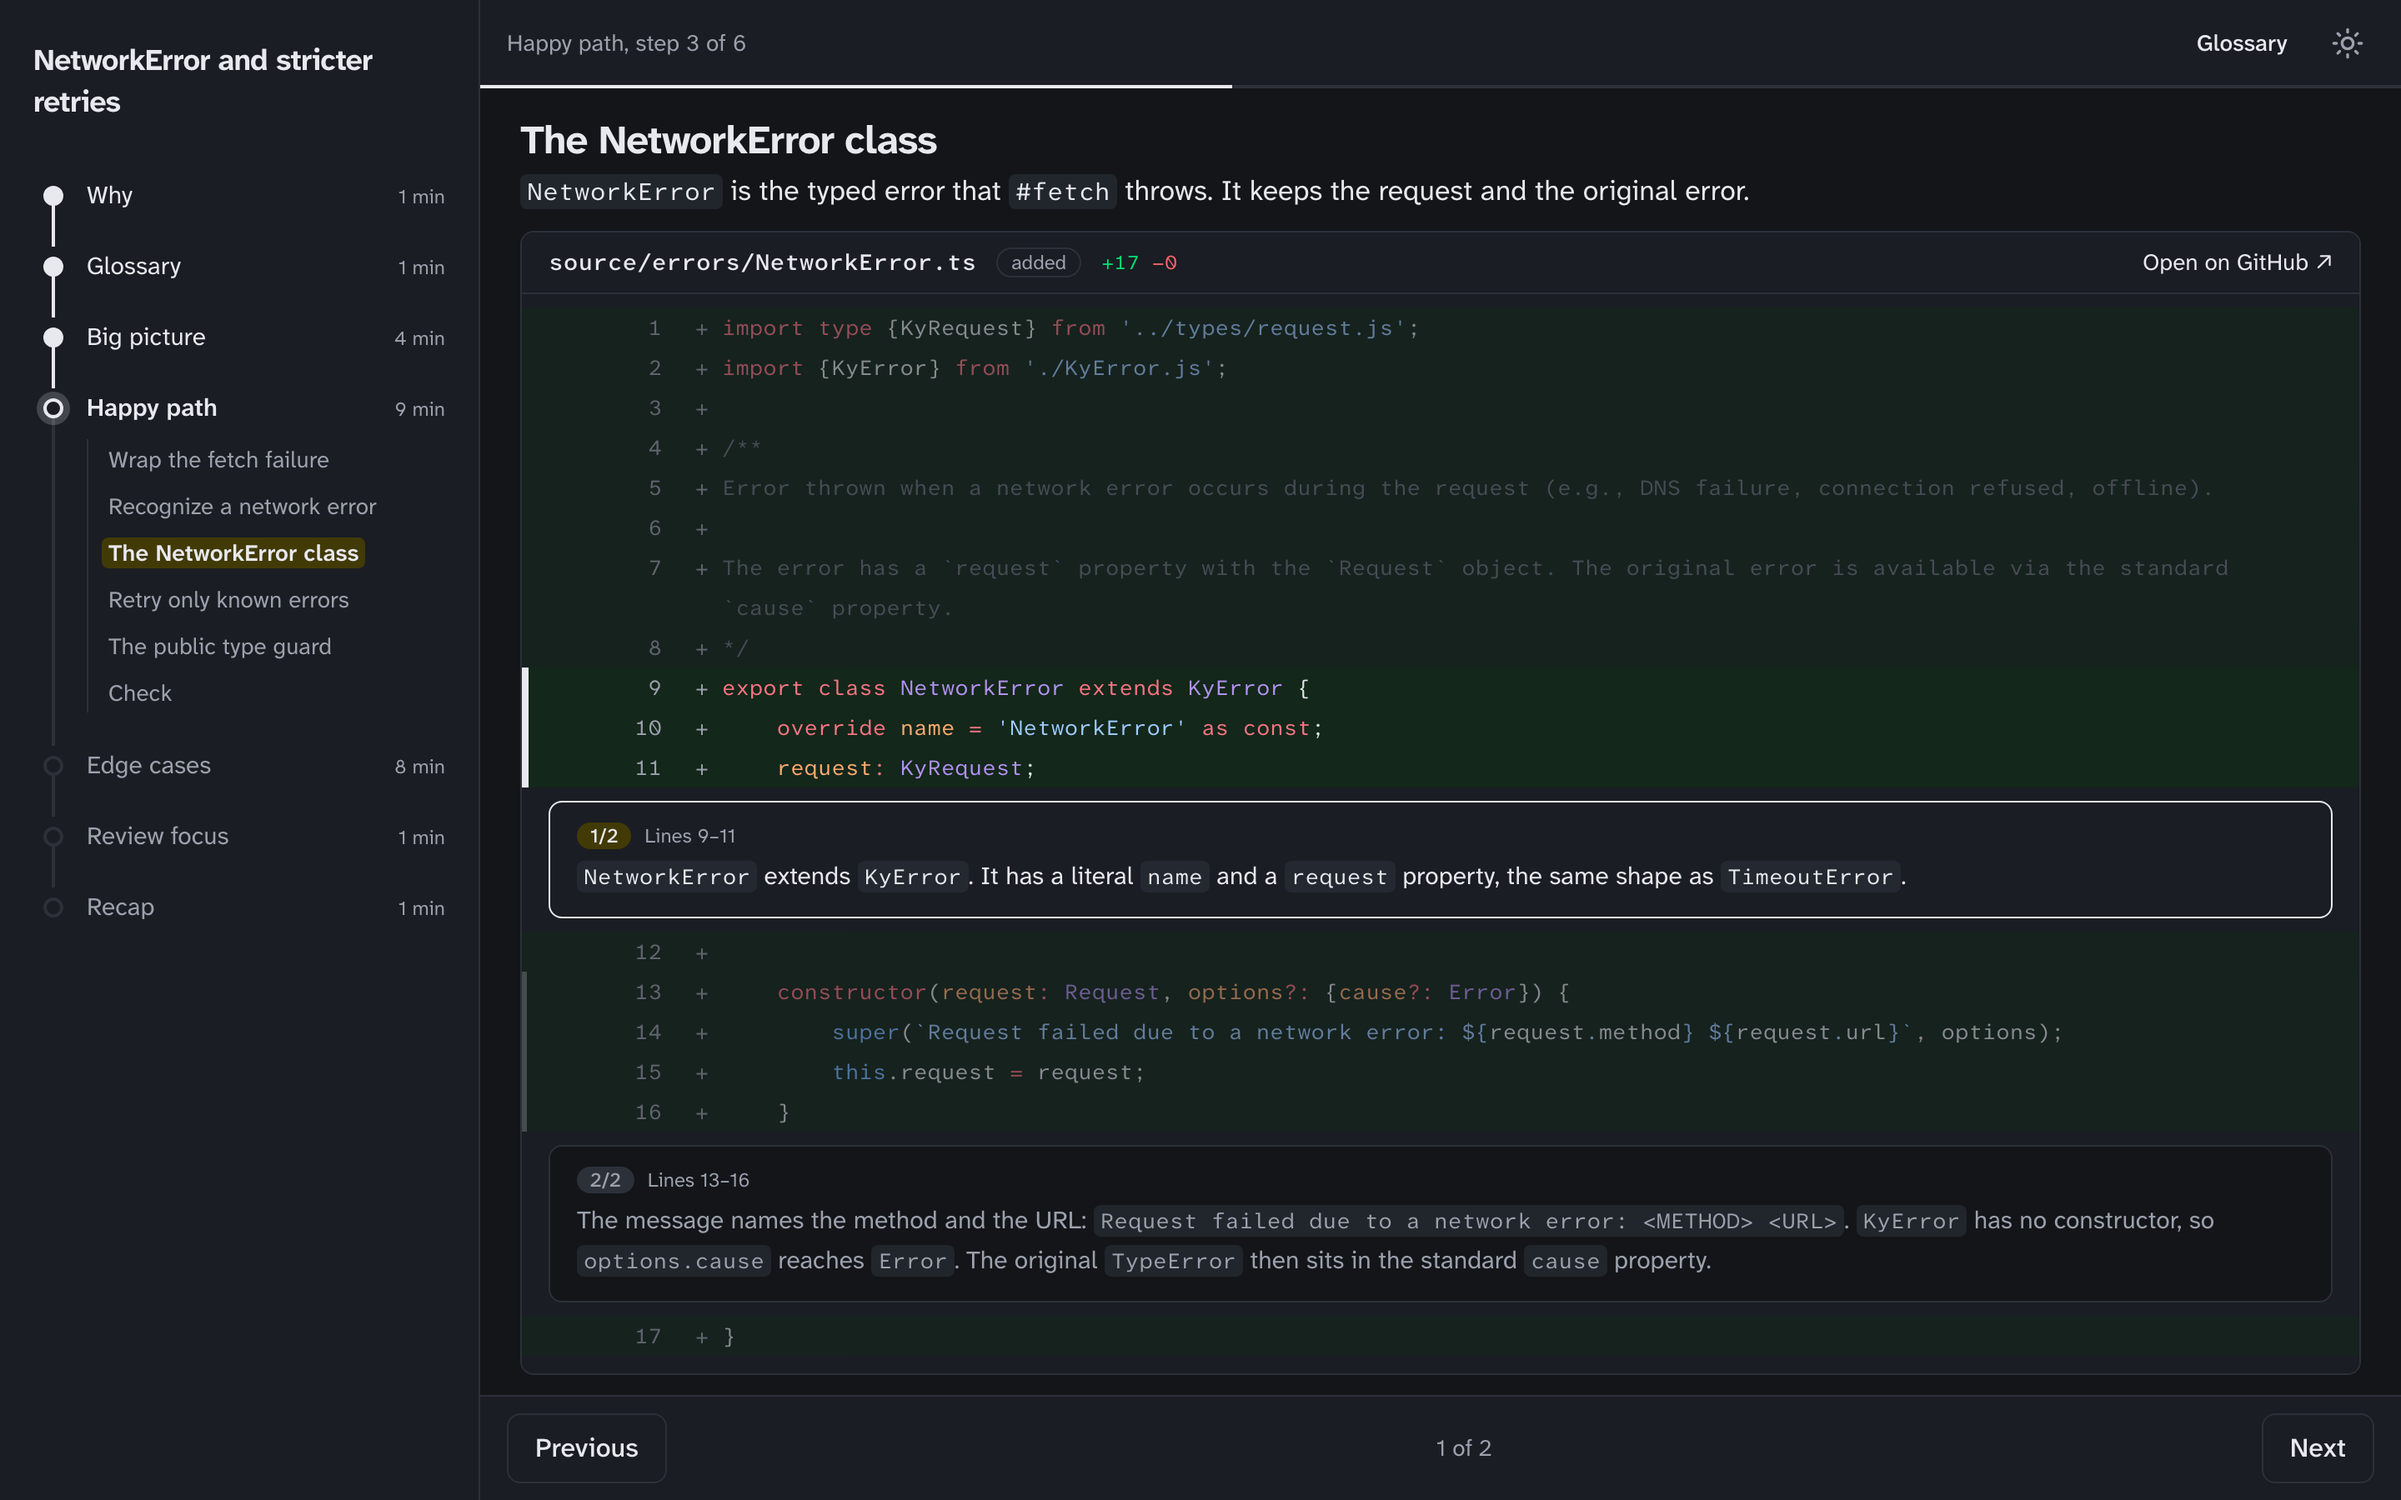
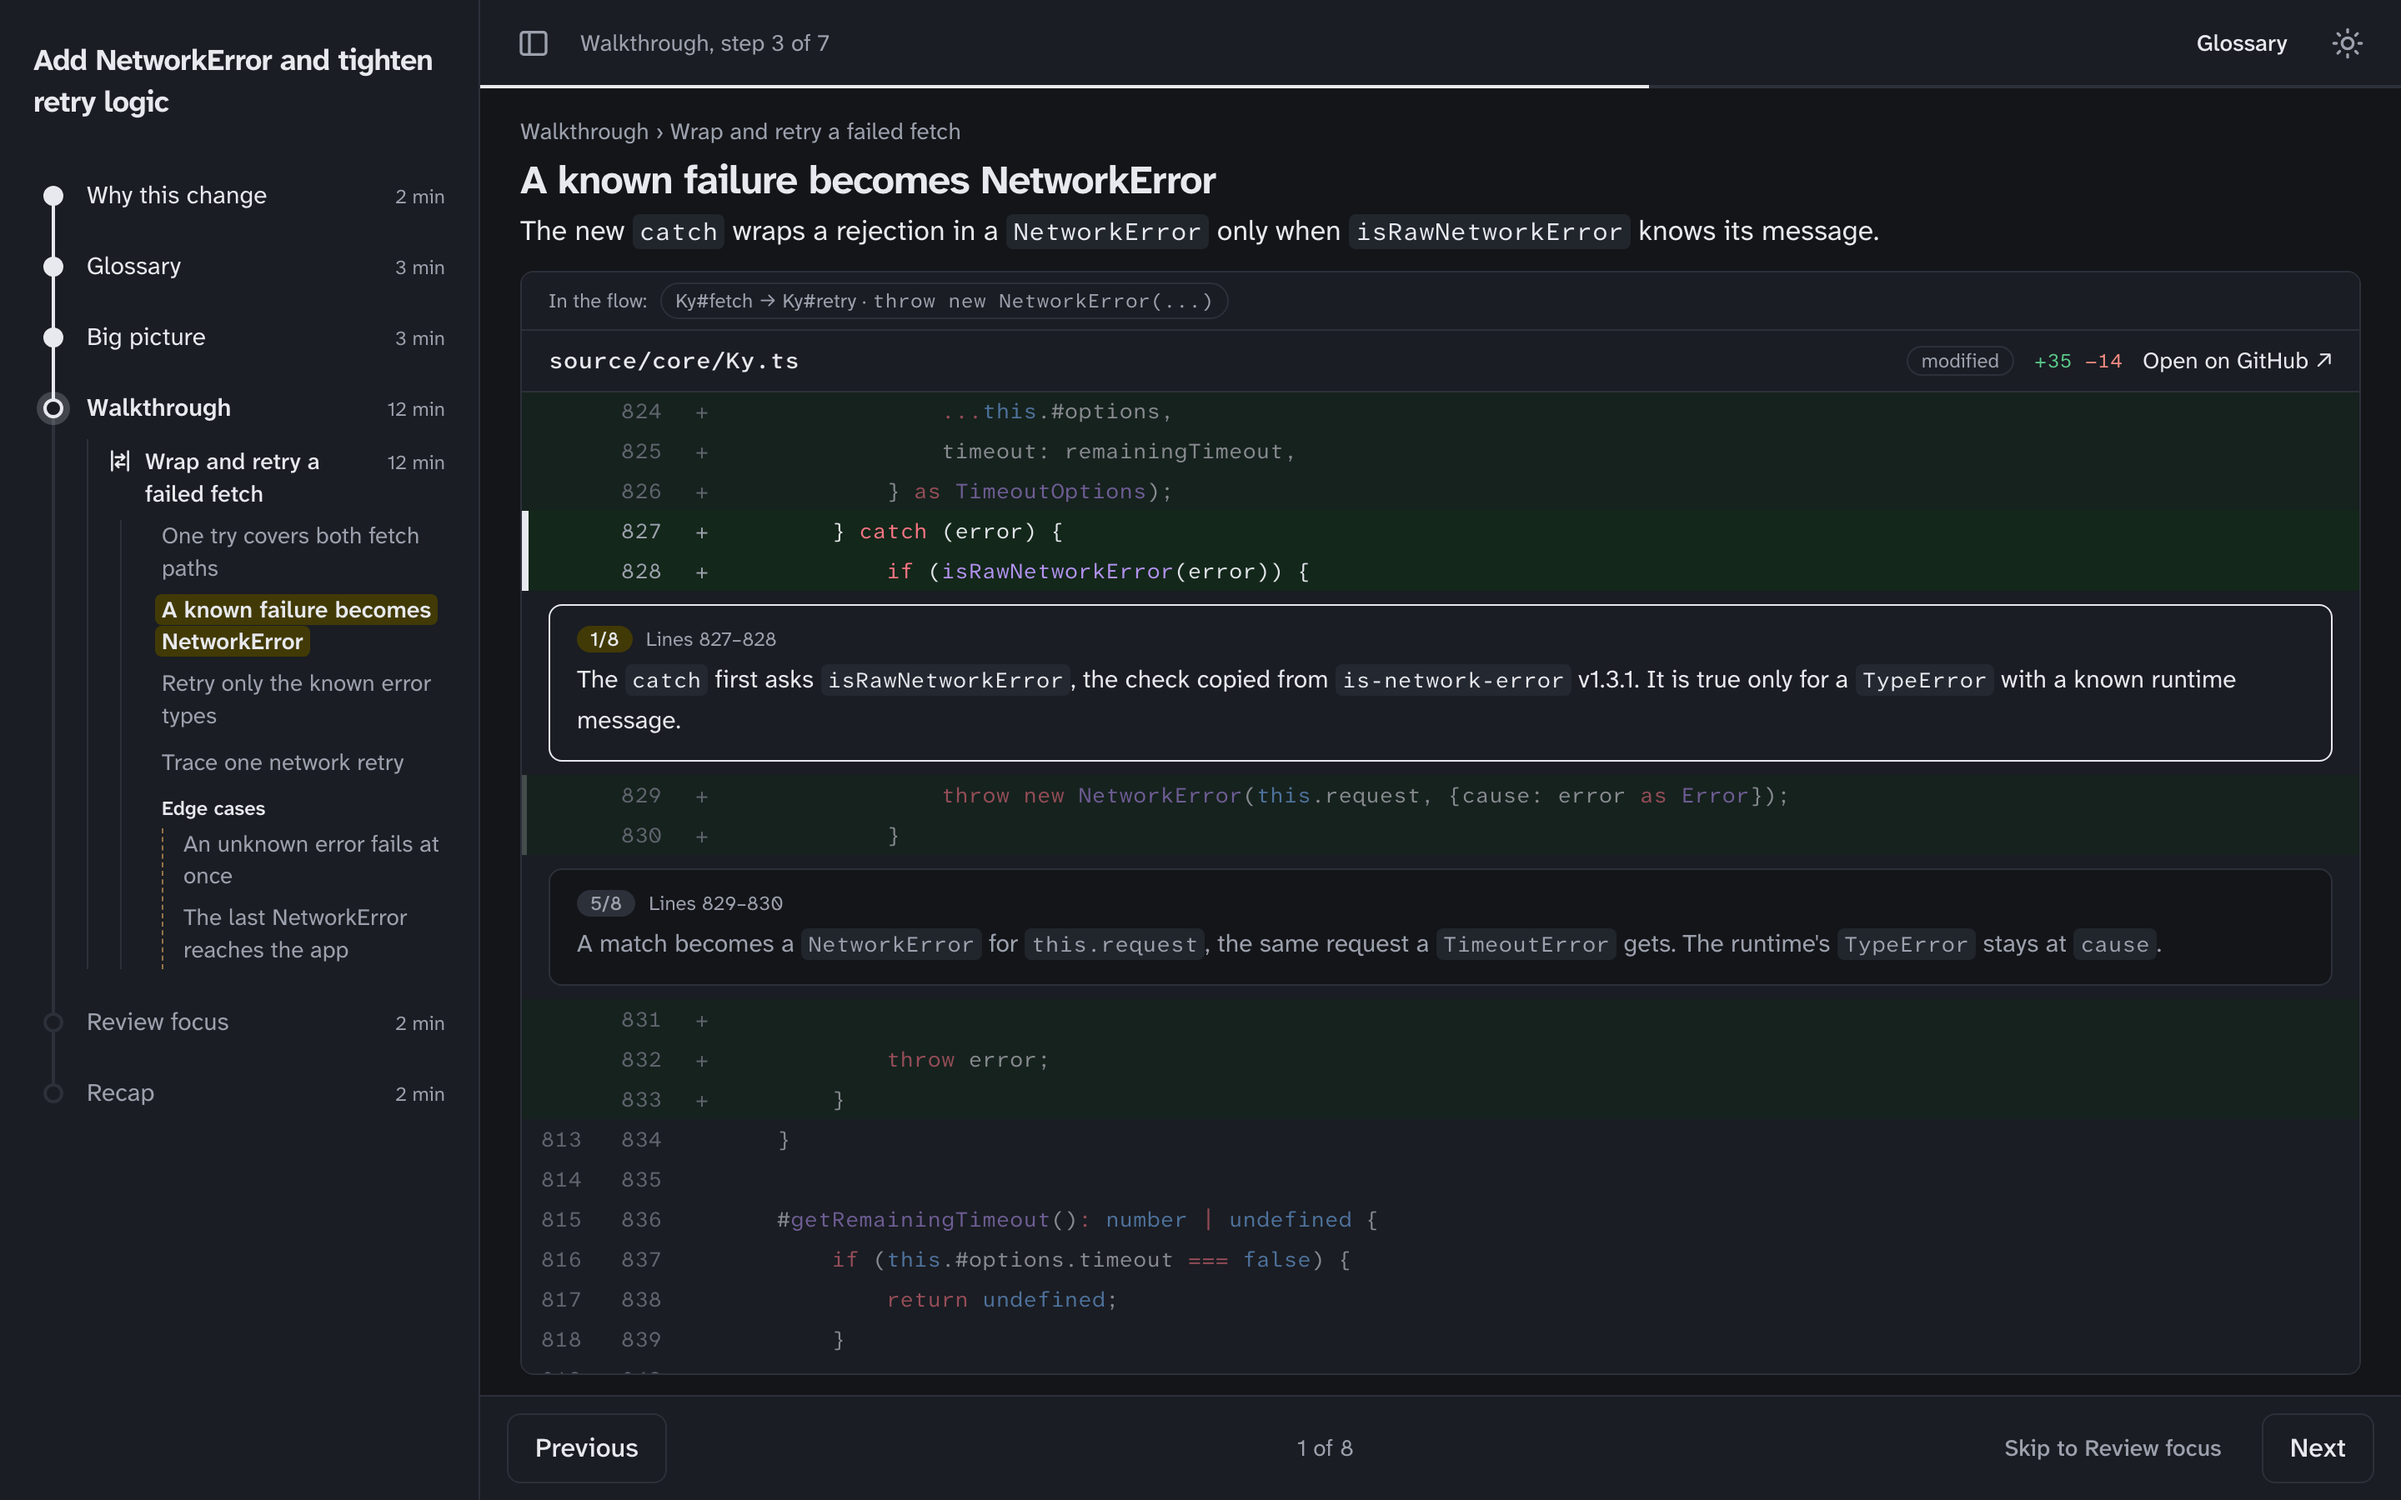
docs: refresh README screenshots from the current example

diff --git a/README.md b/README.md
@@ -4,7 +4,7 @@ Dive is an Agent Skill that turns a pull request, a code module, or a question a
 
 | Big picture | Code walkthrough | Sequence |
 | --- | --- | --- |
-| ![Dependency diagram](docs/screenshots/diagram.png) | ![Highlighted code with a note](docs/screenshots/code.png) | ![Sequence diagram with a note](docs/screenshots/sequence.png) |
+| ![Diagram of which errors Ky retries](docs/screenshots/diagram.png) | ![Highlighted code with notes](docs/screenshots/code.png) | ![Edge-case sequence diagram with a note](docs/screenshots/sequence.png) |
 
 ## Table of contents
 
